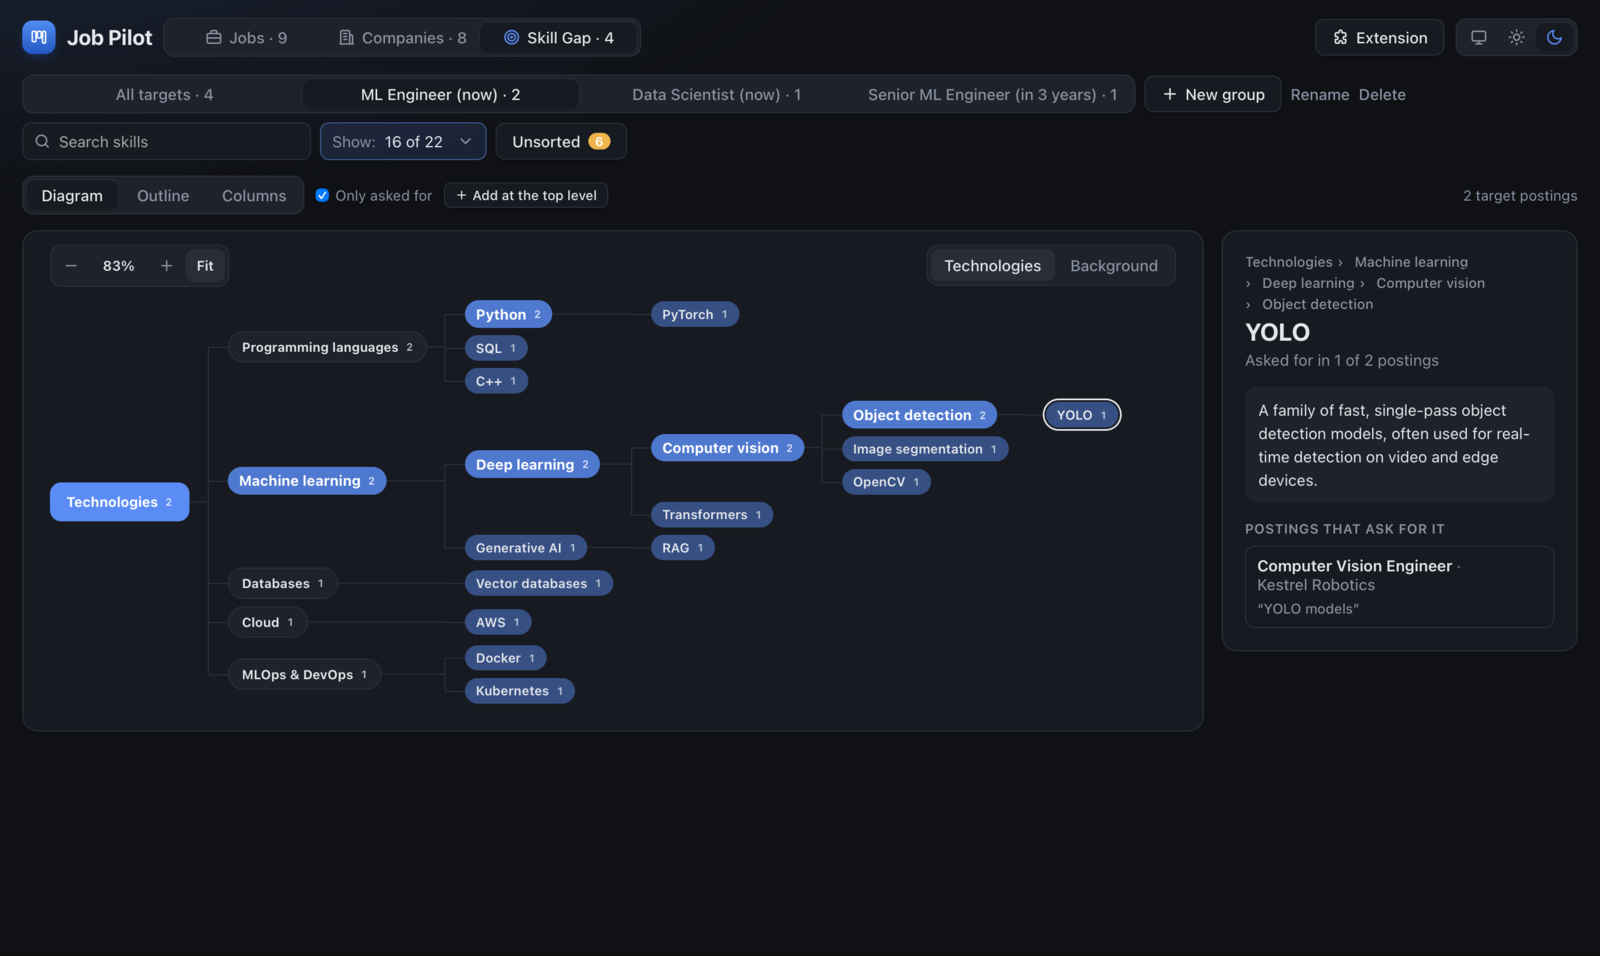
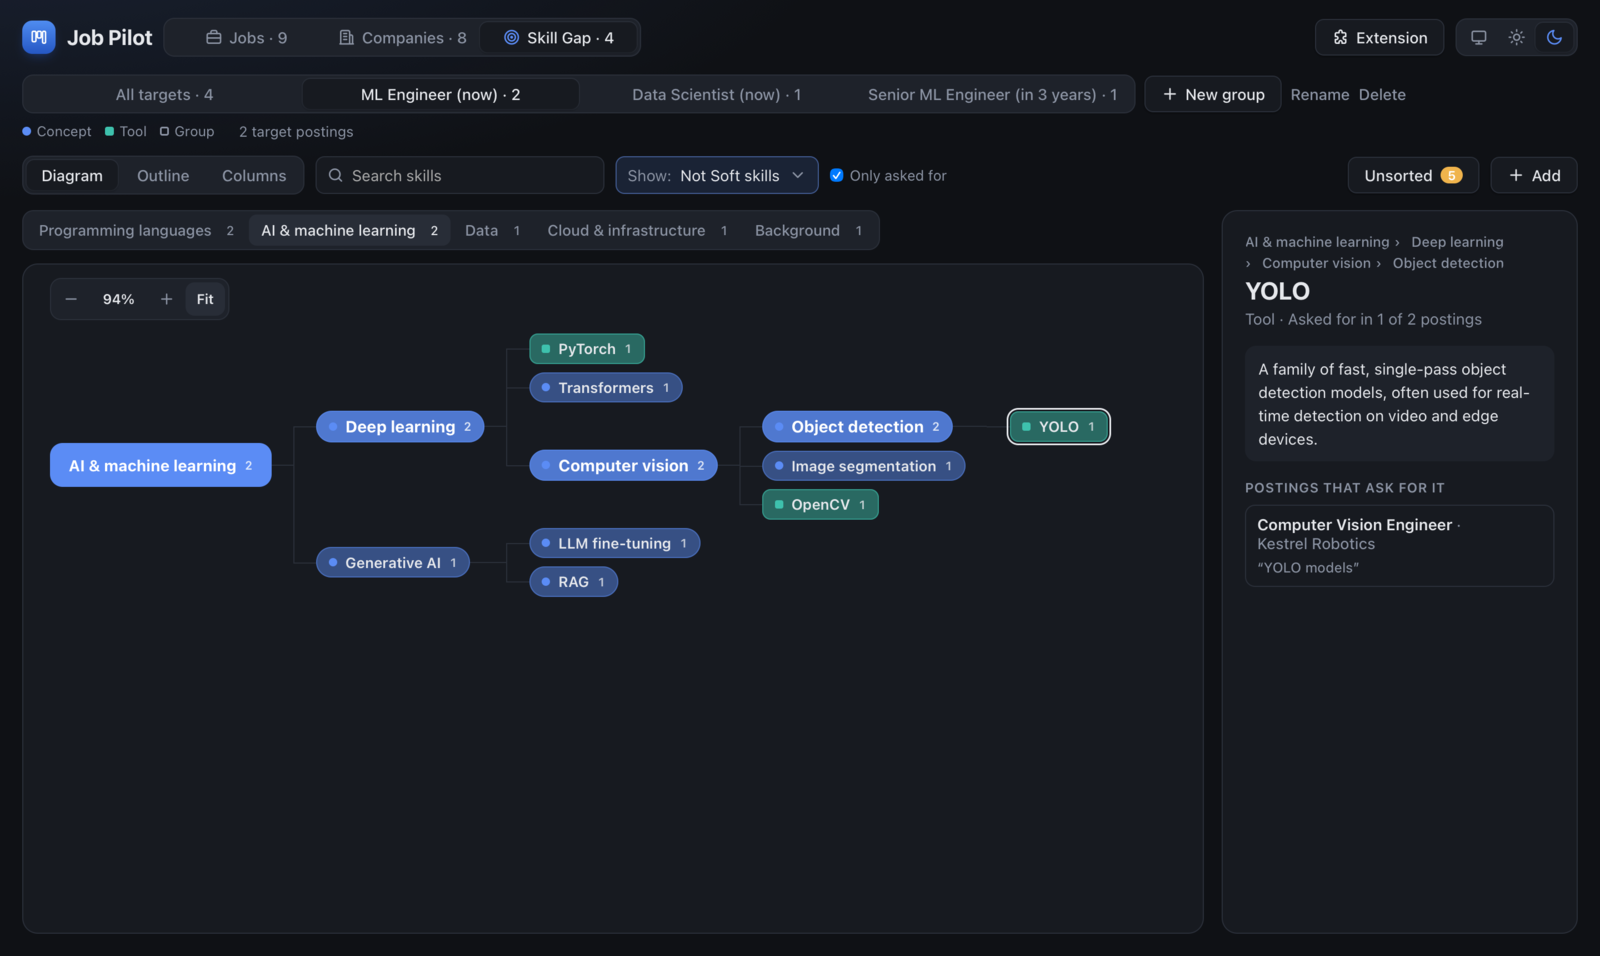
Update the README for the current Skill Gap: area tabs, full-height views, two rows of controls with Show for top-level areas and + Add, and a new screenshot and Unsorted GIF in the concept and tool style

diff --git a/README.md b/README.md
@@ -47,7 +47,7 @@ You connect each target to the skills it asks for by hand. Open the job: its des
 
 ### Unsorted
 
-A skill your tree doesn't have yet waits in **Unsorted**. The **Unsorted** button on the Skill Gap page shows how many are waiting and opens them beside the tree, most asked for first, each with how many postings ask for it and the words it was picked from. **Place…** searches the tree for where it belongs, or drag it onto a node. To take a node out of the tree, drop it on the Unsorted button or panel.
+A skill your tree doesn't have yet waits in **Unsorted**. The **Unsorted** button in the Skill Gap controls shows how many are waiting and opens them beside the tree, most asked for first, each with how many postings ask for it and the words it was picked from. **Place…** searches the tree for where it belongs, or drag it onto a node. To take a node out of the tree, drop it on the Unsorted button or panel.
 
 ![Placing skills from Unsorted into the tree](docs/images/place-unsorted.gif)
 
@@ -62,7 +62,8 @@ The tree starts as a general skeleton for any field: **Technologies** (programmi
 
   Concepts and tools are both asked for by postings and can hold other skills. Choose the kind when you add or edit a node.
 - Each node counts the postings that ask for it or for anything under it. Its details say how many name it and how many name something under it, show its description and what is under it, and list the postings with the line each one asks for it in.
-- See the tree as a **diagram** of one area, an **outline** with a bar per skill, or **columns** you browse one level at a time. Search it, hide parts of it, and order skills as in the tree, by how often they are asked for, or A–Z. What no posting asks for is drawn faint; **Only asked for** hides it.
+- See the tree as a **diagram** of one area, picked from the row of area tabs above it, an **outline** with a bar per skill, or **columns** you browse one level at a time. Every view, and the details beside it, fills the window and scrolls on its own.
+- The page has two rows of controls. The top row picks the role group and says how many target postings there are, with the color legend. The second row has the view, the order (as in the tree, most asked for, or A–Z), search, **Show** (which top-level areas appear), **Only asked for** (hides what no posting asks for, which is otherwise drawn faint), **Unsorted** and **+ Add**.
 
 ![The skill tree for one role group, with a skill's details](docs/images/skill-gap.png)
 
@@ -74,7 +75,7 @@ The page itself is the editor. Hover a node for:
 - the **pencil** to rename it (postings that use the old name still find it) or describe it. **Write with AI** writes a description from the skill's place in the tree, for you to edit before saving;
 - the **trash** to remove it. A skill comes off the jobs connected to it. **Undo** in the notice that appears, or Cmd+Z, brings it back while the app is open: in its place, with what was under it, its jobs and its description.
 
-Double-click a node to edit it. Drag nodes in the diagram or the outline to move them, under another node or between two. In the diagram, hold a dragged node over an area's tab to show that area, or drop it on the tab.
+**+ Add** in the controls adds a skill or group at the top level. Double-click a node to edit it. Drag nodes in the diagram or the outline to move them, under another node or between two. In the diagram, hold a dragged node over an area's tab to show that area, or drop it on the tab.
 
 ## AI
 
